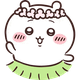
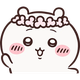
feat : 커서 캐릭터 선택과 호버 표정 변화 추가
- 커서를 얼굴만 나오게 다시 잘라 냄
- 누를 수 있는 곳 위에서 표정이 다른 얼굴로 바뀌도록 처리
- 사이드바에서 커서 캐릭터를 고르고 브라우저에 저장
- 카드 호버 기울임, 누름 반응, 섹션 제목 점, 파스텔 스크롤바 등 잔재미 추가
- 움직임 줄이기 설정을 켠 사람에게는 기울임을 끔

diff --git a/src/app/globals.css b/src/app/globals.css
@@ -333,11 +333,25 @@ li { margin-bottom: 0.3em; }
 
 /* ── 커서 ─────────────────────────────────── */
 /*
- * 캐릭터 얼굴을 커서로 쓴다. 브라우저가 커서 이미지를 못 읽는 경우가 있어
- * 뒤에 기본값을 반드시 남긴다. 좌표는 그림 왼쪽 위 근처를 가리키게 잡는다.
+ * 캐릭터 얼굴을 커서로 쓴다. 고른 캐릭터는 <html data-cursor> 로 들어온다.
+ * 누를 수 있는 곳 위에서는 표정이 다른 얼굴로 바뀐다.
+ * 브라우저가 커서 이미지를 못 읽는 경우가 있어 뒤에 기본값을 반드시 남긴다.
  */
+:root {
+  --cursor-idle: url('/cursor/chiikawa.png');
+  --cursor-hover: url('/cursor/chiikawa-hover.png');
+}
+[data-cursor='hachiware'] {
+  --cursor-idle: url('/cursor/hachiware.png');
+  --cursor-hover: url('/cursor/hachiware-hover.png');
+}
+[data-cursor='usagi'] {
+  --cursor-idle: url('/cursor/usagi.png');
+  --cursor-hover: url('/cursor/usagi-hover.png');
+}
+
 body {
-  cursor: url('/cursor/chiikawa.png') 6 4, auto;
+  cursor: var(--cursor-idle) 6 4, auto;
 }
 a,
 button,
@@ -347,20 +361,35 @@ summary,
 .chip,
 .card,
 .tile,
-.row {
-  cursor: url('/cursor/usagi.png') 6 4, pointer;
+.row,
+.leaflet-container {
+  cursor: var(--cursor-hover) 6 4, pointer;
 }
 input,
 select,
 textarea {
   cursor: auto;
 }
-.leaflet-container {
-  cursor: url('/cursor/hachiware.png') 6 4, grab;
+
+/* 커서 고르기 */
+.cursor-picker { margin-top: 22px; padding: 0 14px; display: grid; gap: 7px; }
+.cursor-picker-label { font-size: 0.76rem; color: var(--muted); font-weight: 600; }
+.cursor-picker-options { display: flex; gap: 6px; }
+.cursor-picker-options button {
+  width: 38px;
+  height: 38px;
+  display: grid;
+  place-items: center;
+  border: 2px solid transparent;
+  border-radius: 12px;
+  background: var(--surface-2);
+  padding: 0;
+  transition: border-color 0.14s, transform 0.14s;
 }
-.leaflet-container:active {
-  cursor: url('/cursor/hachiware.png') 6 4, grabbing;
-}
+.cursor-picker-options button:hover { transform: translateY(-2px); }
+.cursor-picker-options button[aria-pressed='true'] { border-color: var(--pink-deep); background: var(--pink); }
+.cursor-picker-options img { width: 26px; height: 26px; object-fit: contain; }
+
 /* 손가락으로 쓰는 화면에서는 커서 그림이 의미가 없다. */
 @media (hover: none) {
   body,
@@ -373,4 +402,44 @@ textarea {
   .leaflet-container {
     cursor: auto;
   }
+  .cursor-picker { display: none; }
+}
+
+/* ── 자잘한 재미 ─────────────────────────── */
+/* 카드를 살짝 기울여 들어 올린다. 전부 같은 각도면 기계처럼 보여 짝수·홀수를 다르게 준다. */
+.grid > .card:hover { transform: translateY(-4px) rotate(-1.2deg); }
+.grid > .card:nth-child(even):hover { transform: translateY(-4px) rotate(1.2deg); }
+.tile:hover { transform: translateY(-2px) rotate(-0.5deg); }
+
+/* 누르면 눌리는 느낌 */
+.btn:active,
+.chip:active,
+.cursor-picker-options button:active { transform: scale(0.95); }
+
+/* 섹션 제목 앞에 작은 점을 찍어 목차처럼 보이게 한다. */
+.section-head h2::before {
+  content: '';
+  display: inline-block;
+  width: 9px;
+  height: 9px;
+  margin-right: 9px;
+  border-radius: 50%;
+  background: var(--pink-deep);
+  vertical-align: 0.1em;
+}
+
+/* 스크롤바도 파스텔로 */
+* { scrollbar-width: thin; scrollbar-color: var(--line-strong) transparent; }
+::-webkit-scrollbar { width: 10px; height: 10px; }
+::-webkit-scrollbar-thumb { background: var(--line-strong); border-radius: 999px; border: 3px solid var(--bg); }
+::-webkit-scrollbar-thumb:hover { background: var(--pink-deep); }
+::-webkit-scrollbar-track { background: transparent; }
+
+/* 글자를 끌어 선택하면 분홍으로 */
+::selection { background: var(--pink); color: var(--ink); }
+
+@media (prefers-reduced-motion: reduce) {
+  .grid > .card:hover,
+  .grid > .card:nth-child(even):hover,
+  .tile:hover { transform: none; }
 }

diff --git a/src/components/CursorPicker.tsx b/src/components/CursorPicker.tsx
@@ -1,0 +1,66 @@
+'use client';
+
+import { useEffect, useState } from 'react';
+import { track } from '@/lib/analytics';
+
+const CHARACTERS = [
+  { key: 'chiikawa', name: '치이카와' },
+  { key: 'hachiware', name: '하치와레' },
+  { key: 'usagi', name: '우사기' },
+] as const;
+
+type CursorKey = (typeof CHARACTERS)[number]['key'];
+
+const STORAGE_KEY = 'chiikawa-cursor';
+const DEFAULT: CursorKey = 'chiikawa';
+
+const isCursorKey = (value: string | null): value is CursorKey =>
+  CHARACTERS.some((c) => c.key === value);
+
+/** 커서로 쓸 캐릭터를 고른다. 고른 값은 <html> 의 속성으로 옮겨 CSS 가 읽는다. */
+export function CursorPicker() {
+  const [current, setCurrent] = useState<CursorKey>(DEFAULT);
+
+  useEffect(() => {
+    let saved: string | null = null;
+    try {
+      saved = localStorage.getItem(STORAGE_KEY);
+    } catch {
+      // 저장소를 막아 둔 브라우저에서는 기본값으로 둔다.
+    }
+    if (isCursorKey(saved)) setCurrent(saved);
+  }, []);
+
+  useEffect(() => {
+    document.documentElement.dataset.cursor = current;
+  }, [current]);
+
+  const choose = (key: CursorKey) => {
+    setCurrent(key);
+    try {
+      localStorage.setItem(STORAGE_KEY, key);
+    } catch {
+      // 저장에 실패해도 이번 방문에는 적용된다.
+    }
+    track('cursor_change', { character: key });
+  };
+
+  return (
+    <div className="cursor-picker">
+      <span className="cursor-picker-label">커서</span>
+      <div className="cursor-picker-options" role="group" aria-label="커서 캐릭터 선택">
+        {CHARACTERS.map((c) => (
+          <button
+            key={c.key}
+            type="button"
+            aria-label={c.name}
+            aria-pressed={current === c.key}
+            onClick={() => choose(c.key)}
+          >
+            <img src={`/cursor/${c.key}.png`} alt="" width={26} height={26} />
+          </button>
+        ))}
+      </div>
+    </div>
+  );
+}

diff --git a/src/components/SiteHeader.tsx b/src/components/SiteHeader.tsx
@@ -3,6 +3,7 @@
 import Link from 'next/link';
 import { usePathname } from 'next/navigation';
 import { Icon, type IconName } from './Icon';
+import { CursorPicker } from './CursorPicker';
 
 const NAV: { href: string; label: string; icon: IconName }[] = [
   { href: '/', label: '홈', icon: 'home' },
@@ -42,6 +43,7 @@ export function SiteHeader() {
             </li>
           ))}
         </ul>
+        <CursorPicker />
       </nav>
 
       <nav className="tabbar" aria-label="주요 메뉴">

diff --git a/scripts/cursor.py b/scripts/cursor.py
@@ -2,48 +2,77 @@
 """
 캐릭터 얼굴로 마우스 커서 이미지를 만든다.
 
-원본은 배경이 단색이라 그 색을 투명으로 바꾸고, 캐릭터가 꽉 차도록 여백을 잘라 낸다.
-브라우저 커서는 32px 안팎이 가장 또렷해 두 배 크기까지만 만든다.
+기본 커서는 극장판 일러스트의 얼굴, 누를 수 있는 곳을 가리킬 때는 표정이 다른 얼굴을 쓴다.
+배경은 모서리에서 번져 나가는 방식으로 지운다. 색을 통째로 지우면 캐릭터의 흰 부분까지 날아간다.
 """
 
+import urllib.request
 from pathlib import Path
 
-from PIL import Image
+from PIL import Image, ImageDraw
 
-SOURCE = Path("public/images/characters")
 OUT = Path("public/cursor")
+SOURCE = Path("public/images/characters")
 SIZE = 40
-# 배경색과 이 정도까지 차이나면 배경으로 본다. 그림의 흰색은 테두리가 있어 살아남는다.
-BACKGROUND_TOLERANCE = 18
+UA = "Mozilla/5.0 (Macintosh; Intel Mac OS X 10_15_7) AppleWebKit/537.36 Chrome/124 Safari/537.36"
+
+# 표정이 다른 얼굴. 치이카와파크 얼굴 접시 상품으로, 얼굴만 나오고 배경이 희다.
+HOVER_FACE = {
+    "chiikawa": "4571609367710_1",
+    "hachiware": "4571609367727_1",
+    "usagi": "4571609367734_1",
+}
+SHOP_CDN = "https://cdn.shopify.com/s/files/1/0626/7142/1681/files"
+
+# 극장판 일러스트에서 머리만 남기는 비율. 아래쪽 풀잎 목도리를 잘라 낸다.
+HEAD_RATIO = 0.74
+FLOOD_TOLERANCE = 26
 
 
-def to_cursor(slug: str) -> None:
-    image = Image.open(SOURCE / f"movie-{slug}.png").convert("RGBA")
-    pixels = image.load()
-    background = pixels[2, 2][:3]
+def strip_background(image: Image.Image) -> Image.Image:
+    """네 모서리에서 번져 나가며 배경만 투명하게 만든다."""
+    canvas = image.convert("RGBA")
+    width, height = canvas.size
+    for corner in ((0, 0), (width - 1, 0), (0, height - 1), (width - 1, height - 1)):
+        ImageDraw.floodfill(canvas, corner, (0, 0, 0, 0), thresh=FLOOD_TOLERANCE)
+    return canvas
 
-    for y in range(image.height):
-        for x in range(image.width):
-            r, g, b, a = pixels[x, y]
-            near = abs(r - background[0]) + abs(g - background[1]) + abs(b - background[2])
-            if near <= BACKGROUND_TOLERANCE:
-                pixels[x, y] = (r, g, b, 0)
 
+def to_square(image: Image.Image) -> Image.Image:
+    """여백을 잘라 내고 정사각형 가운데에 놓는다. 그래야 커서 좌표가 어긋나지 않는다."""
     trimmed = image.crop(image.getbbox())
-    # 정사각형 안에 넣어야 커서 좌표가 어긋나지 않는다.
     side = max(trimmed.width, trimmed.height)
     square = Image.new("RGBA", (side, side), (0, 0, 0, 0))
     square.paste(trimmed, ((side - trimmed.width) // 2, (side - trimmed.height) // 2))
+    return square
 
+
+def save(image: Image.Image, name: str) -> None:
     for scale, suffix in ((1, ""), (2, "@2x")):
-        square.resize((SIZE * scale, SIZE * scale), Image.LANCZOS).save(OUT / f"{slug}{suffix}.png")
-    print(f"{slug} {trimmed.width}x{trimmed.height} → {SIZE}px, {SIZE * 2}px")
+        image.resize((SIZE * scale, SIZE * scale), Image.LANCZOS).save(OUT / f"{name}{suffix}.png")
+
+
+def build_default(slug: str) -> None:
+    source = strip_background(Image.open(SOURCE / f"movie-{slug}.png"))
+    box = source.getbbox()
+    head = source.crop((box[0], box[1], box[2], box[1] + round((box[3] - box[1]) * HEAD_RATIO)))
+    save(to_square(head), slug)
+
+
+def build_hover(slug: str) -> None:
+    url = f"{SHOP_CDN}/{HOVER_FACE[slug]}.jpg"
+    request = urllib.request.Request(url, headers={"User-Agent": UA})
+    with urllib.request.urlopen(request, timeout=30) as response:
+        photo = Image.open(response)
+    save(to_square(strip_background(photo)), f"{slug}-hover")
 
 
 def main() -> None:
     OUT.mkdir(parents=True, exist_ok=True)
-    for slug in ("chiikawa", "hachiware", "usagi"):
-        to_cursor(slug)
+    for slug in HOVER_FACE:
+        build_default(slug)
+        build_hover(slug)
+        print(f"{slug} 기본·호버 생성")
 
 
 if __name__ == "__main__":

diff --git a/README.md b/README.md
@@ -42,84 +42,14 @@ pnpm scrape   # 치이카와 마켓 신상 굿즈 갱신
 
 ## 커서
 
-`scripts/cursor.py` 가 캐릭터 얼굴로 커서 이미지를 만든다. 원본 배경이 단색이라 그 색을 투명으로 바꾸고,
-여백을 잘라 정사각형에 담는다. 기본 커서는 치이카와, 누를 수 있는 곳은 우사기, 지도는 하치와레다.
-브라우저가 커서 이미지를 못 읽을 때를 대비해 CSS 에 기본값을 반드시 남긴다.
-손가락으로 쓰는 화면에서는 커서 그림이 의미가 없어 끈다.
+`scripts/cursor.py` 가 캐릭터 얼굴로 커서 이미지를 만든다. 기본 커서는 극장판 일러스트의 얼굴,
+누를 수 있는 곳 위에서는 표정이 다른 얼굴(치이카와파크 얼굴 접시 상품)로 바뀐다.
+배경은 모서리에서 번져 나가는 방식으로 지운다. 색을 통째로 지우면 캐릭터의 흰 부분까지 날아간다.
 
-인물과 장소 이미지는 `pnpm images` 로 파일을 내려받아 `public/images` 에 두고 로컬 경로로 참조합니다.
-핫링크는 차단이나 CDN 만료로 조용히 깨지기 때문입니다. 굿즈는 2천 건이라 Shopify CDN을 그대로 씁니다.
-
-인물 45명 중 37명에 사진이 있습니다. 나머지는 이름만 나오는 단역·괴물이라 공식 이미지도 굿즈도 없어
-흰 배경에 파스텔 원으로 표시합니다.
-
-## 굿즈 자동 갱신
-
-`scripts/scrape.mjs` 가 치이카와 마켓의 Shopify `products.json` 을 읽어 최근 6개월 상품을 채웁니다.
-발매일은 `published_at` 이 아니라 상품 태그의 8자리 날짜(`20260925`, `PRE20260513`, `RE20260601`)에서 뽑습니다.
-`published_at` 은 상품이 다시 공개될 때 갱신되어 신뢰할 수 없기 때문입니다.
-
-재입고(`RE20260601`)는 새 발매가 아니므로 발매일로 세지 않고 이력으로만 모읍니다.
-재고(`variants[].available`)도 함께 가져옵니다. 치이카와 마켓은 상품의 79%가 품절 상태로 남아 있어,
-이 값이 없으면 살 수 없는 상품을 구매 링크로 안내하게 됩니다.
-
-`cm-` 접두사가 붙은 항목만 스크래퍼가 덮어쓰고, 손으로 넣은 국내 굿즈는 그대로 둡니다.
-`.github/workflows/scrape.yml` 이 매일 오전 6시(KST)에 돌면서 변경분을 커밋합니다.
-
-## 지도
-
-Leaflet + OpenStreetMap 타일을 씁니다. API 키가 필요 없습니다.
-기본 타일은 채도가 높아 `.leaflet-tile-pane` 에 CSS 필터를 걸어 파스텔 톤에 맞췄습니다.
-
-## 홈 화면 3D
-
-`src/components/hero/` 가 치이카와·하치와레·우사기를 three.js 기본 도형으로 조립해 움직인다.
-외부 모델 파일 없이 구와 캡슐만 쓴다.
-
-- `faceTexture.ts` — 얼굴을 텍스처로 머리에 입힌다. 3D 조각으로 붙이면 표면에서 떠 보인다.
-  얼굴은 `public/images/hero/` 의 공식 인형 사진에서 오려 쓴다. 자수 눈썹이 연해서
-  어두운 곳만 곱하기로 한 번 더 눌러 대비를 올린다. 손으로 그리는 것보다 원본에 가깝고
-  자수 결과 잔털이 그대로 남는다. 사진이 도착하기 전에는 직접 그린 얼굴을 보여 준다.
-  구의 UV는 위아래로 갈수록 가로가 좁아지므로 좌표마다 그 왜곡을 되돌린다.
-  얼굴은 요소만 오려 붙이므로 바탕은 사진 색을 따를 필요가 없다. 사진에서 뽑으면 그 지점의
-  그늘까지 딸려 와 얼굴이 칙칙해진다. 밝은 색을 직접 쓴다.
-  사진을 통째로 붙이면 구워진 조명 때문에 얼굴만 밝은 네모로 뜬다. 그래서 크게 흐린 사본을
-  그 자리의 바탕으로 보고, 그보다 튀는 픽셀만 남겨 눈·눈썹·볼·입만 오려 낸다.
-  임계값은 털 결의 잔차(20 안팎)보다 위에 둬야 바탕이 남지 않는다.
-  흐림은 캔버스 밖을 투명으로 보므로 가장자리 값이 튄다. 테두리는 눌러 지운다.
-  구면 각도를 화면 높이로 그대로 환산하면 위쪽에서 눌려 보인다. 앞머리 높이는 실제 화면을 보고 맞췄다.
-  앞머리 아랫선은 가운데가 뾰족하게 솟는 가르마다. 솟는 폭이 좁아야 가르마로 읽히고,
-  넓으면 바가지머리가 된다. 그 양옆이 가장 낮고 맨 바깥은 귀 쪽으로 가며 다시 올라간다.
-  배율과 위치는 **두 눈 사이**를 기준으로 맞춘다. 머리 경계를 눈대중으로 재면 사진마다 달라져
-  한쪽은 얼굴이 늘어나고 다른 쪽은 눌린다. 세 사진 모두 눈 간격이 204px 로 같아 기준으로 쓰기 좋다.
-  하치와레의 파란 앞머리는 사진 위에 덮어 그린다. 먼저 그리면 사진에 딸려 온 파란 부분과 두 겹이 된다.
-  앞머리는 골이 파인 W 가 아니라, 앞 가운데가 가장 높고 양옆으로 갈수록 내려오는 단순한 곡선이다.
-  앞·뒤·옆 사진을 모두 보고 잰 값이다. 옆에서 보면 눈 높이까지 덮인다.
-  눈썹 대비는 곱하기가 아니라 대비 필터로 올린다. 곱하면 흰 바탕까지 어두워져 얼굴 둘레에 띠가 생긴다.
-- `characters.ts` — 도형 조립. 비율이 핵심이다. 머리가 전체 높이의 6할을 차지하고,
-  몸통 너비는 머리의 9할쯤 된다. 몸을 좁게 잡으면 사탕처럼 보인다.
-  귀는 축을 밑동에 둬야 흔들려도 머리에서 떨어져 보이지 않는다.
-  하치와레의 고양이 귀는 원뿔로 만들면 끝이 바늘처럼 뾰족해 뿔이 된다. 옆모습을 돌려 둥근 끝을 만들고,
-  밑면을 막아 둔다. 뚫려 있으면 기울였을 때 안이 들여다보여 머리에서 떨어진 것처럼 보인다.
-  몸통은 구를 눌러 쓰면 치마처럼 퍼진다. 옆모습을 돌려 위가 좁고 아래가 불룩한 배 모양으로 만든다.
-  머리가 주인공이라 몸 반지름은 머리 반너비의 6할쯤으로 확실히 작게 잡는다.
-  이때 옆모습 점은 **아래에서 위 순서**로 적어야 면이 바깥을 향한다. 뒤집으면 안쪽만 보인다.
-  몸통 윗부분은 머리 밑으로 완전히 들어가야 목처럼 보이지 않는다.
-  팔은 몸통이 좁아지는 위쪽에 붙여야 실루엣이 분리된다. 가장 넓은 곳에 붙이면 몸에 묻힌다.
-  발은 몸 아래 가운데에 바짝 모은다. 벌리면 다리처럼 보인다.
-  재질은 `sheen` 을 준 물리 재질이다. 일반 재질은 아무리 거칠게 해도 플라스틱처럼 보인다.
-  톤매핑은 쓰지 않는다. 밝은 색을 눌러 흰 인형이 회색이 된다.
-- `motions.ts` — 캐릭터별 시그니처 동작. three.js 에 의존하지 않는 순수 함수라 값만 놓고 검증한다.
-  치이카와는 떨다가 울고, 하치와레는 가볍게 폴짝거리고, 우사기는 크게 뛰며 몸을 튼다.
-  뒤통수에는 얼굴이 없으므로 회전은 제한한다.
-- `HeroSceneInner.tsx` — 렌더링. three.js 는 홈에 들어왔을 때만 내려받고, 탭이 가려지면 그리기를 멈춘다.
-  `prefers-reduced-motion` 을 켠 사람에게는 정지 자세를 보여준다.
-  주소에 `?still` 을 붙이면 정지 정면으로 그린다. 참조 사진과 대조할 때 쓴다.
-
-**인터랙션** — 커서를 따라 고개를 조금 돌리고, 누르면 크게 뛰며 말풍선이 뜬다.
-대사는 일본어 위키백과 「ちいかわ」에 실린, 작중에서 실제로 나오는 말만 쓴다.
-치이카와와 우사기는 말수가 거의 없어 짧은 소리뿐이고, 하치와레만 문장으로 말한다.
-누른 캐릭터는 `hero_character_tap` 이벤트로 남는다. 어느 캐릭터가 사랑받는지 보는 지표다.
+커서 캐릭터는 사이드바에서 고르고 브라우저에 저장된다. 고른 값은 `<html data-cursor>` 로 들어가
+CSS 변수만 바꾸므로, 커서를 쓰는 곳이 늘어도 규칙을 한 곳에서 관리한다.
+브라우저가 커서 이미지를 못 읽을 때를 대비해 CSS 에 기본값을 반드시 남기고,
+손가락으로 쓰는 화면에서는 커서 그림과 선택기를 모두 끈다.
 
 ## 도구
 
